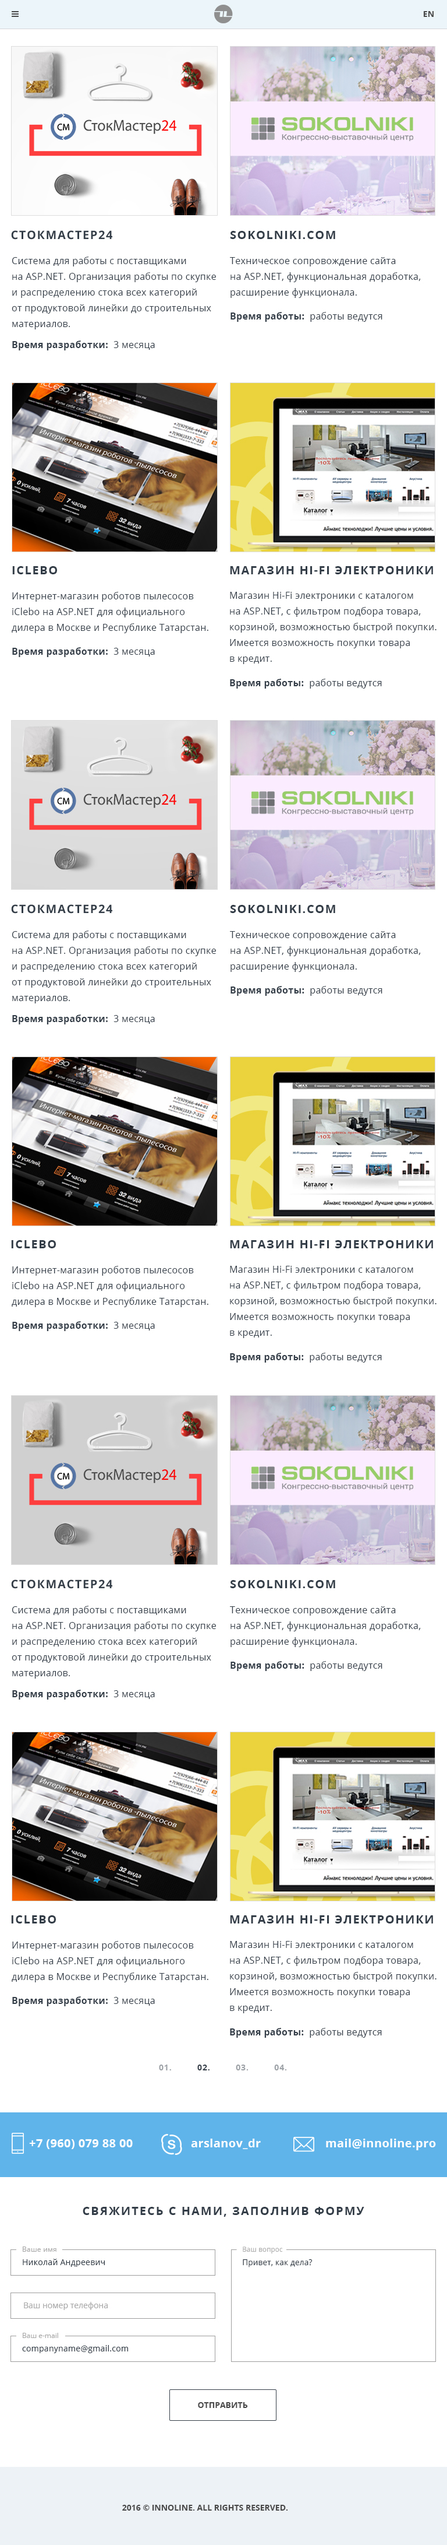
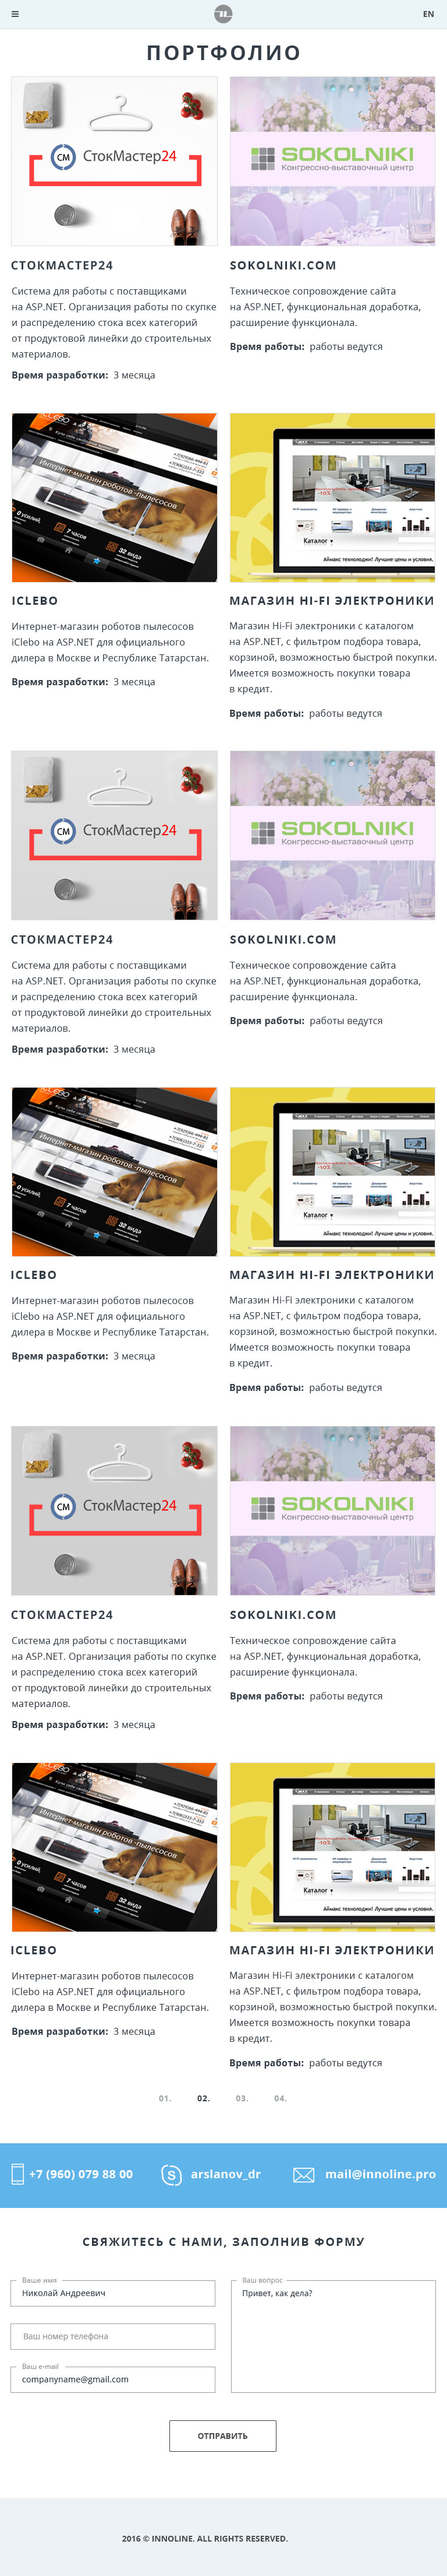
pixel планшетного расширения

diff --git a/sass/blocks/projects.scss b/sass/blocks/projects.scss
@@ -82,14 +82,19 @@
     @include container;
   }
 
+  .projects__title {
+    margin-top: 25px;
+  }
+
   .projects__list {
     display: flex;
     width: 100%;
+    margin-top: 25px;
     flex-wrap: wrap;
   }
 
   .projects__item {
-    width: 350px;
+    width: 354px;
     margin-right: auto;
     margin-bottom: 50px;
 
@@ -98,24 +103,40 @@
     }
   }
 
+  .projects__item:not(:first-child) {
+    margin-top: 0;
+  }
+
   .projects__item:nth-child(n+8):nth-child(-n+12) {
     display: block;
   }
 
-  .projects__item:nth-last-child(n+2) {
+  .projects__item:nth-last-child(-n+6) {
     margin-bottom: 0;
+  }
+
+  .projects__foto {
+    margin: 0;
   }
 
   .projects__foto img {
     margin: 0;
   }
 
+  .projects__desc {
+    margin-top: 18px;
+  }
+
+  .projects__item-caption {
+    letter-spacing: normal;
+  }
+
   .projects__text {
-    margin-top: 25px;
+    margin-top: 16px;
   }
 
   .projects__time {
-    margin-bottom: 10px;
+    margin-top: 10px;
   }
 }
 

diff --git a/sass/blocks/contacts.scss b/sass/blocks/contacts.scss
@@ -70,8 +70,12 @@
 
 @media ($tablet-widths) {
   .contacts {
-    margin-top: 50px;
+    margin-top: 65px;
     padding: 37px 0;
+
+    &--portfolio {
+      margin-top: 50px;
+    }
   }
 
   .contacts__wrapper {
@@ -90,10 +94,20 @@
   }
 
   .contacts__link {
-    padding-left: 29px;
+    padding: 2px 0 9px 29px;
 
     &--icon-tel {
       background-position-x: 0;
+    }
+
+    &--icon-skype {
+      width: 172px;
+      padding-left: 50px;
+    }
+
+    &--icon-mail {
+      width: 243px;
+      padding-left: 55px;
     }
   }
 }

diff --git a/portfolio.html b/portfolio.html
@@ -10,13 +10,13 @@
   HTML {
     background: url('img/Portfolio_mobile.jpg' ) 50% 0 no-repeat;
   }
-/*
-  @media (min-width: 800px) {
+
+  @media (min-width: 768px) {
     HTML {
-      background-image: url('img/page-tablet.jpg' );
+      background-image: url('img/Portfolio_Tablet.jpg' );
     }
   }
-
+/*
   @media (min-width: 1200px) {
     HTML {
       background-image: url('img/page-desktop.jpg' );

diff --git a/sass/blocks/feedback.scss b/sass/blocks/feedback.scss
@@ -102,11 +102,12 @@
 @media ($tablet-widths) {
   .feedback {
     @include container;
+    padding: 45px 0 80px;
   }
 
   .feedback__form {
     display: flex;
-    margin-top: 45px;
+    margin-top: 42px;
     flex-wrap: wrap;
     justify-content: space-between;
   }
@@ -116,7 +117,7 @@
   }
 
   .feedback__btn {
-    margin-top: 16px;
+    margin: 19px auto 0;
   }
 }
 

diff --git a/sass/blocks/pagination.scss b/sass/blocks/pagination.scss
@@ -36,6 +36,11 @@
 }
 
 @media ($tablet-widths) {
+
+  .pagination {
+    margin-top: 39px;
+  }
+
   .pagination--margin {
     margin-bottom: 94px;
     margin-top: 58px;

diff --git a/sass/blocks/title.scss b/sass/blocks/title.scss
@@ -30,5 +30,7 @@
 }
 
 @media ($tablet-widths) {
-  font-size: 35px;
+  .title {
+    font-size: 35px;
+  }
 }
